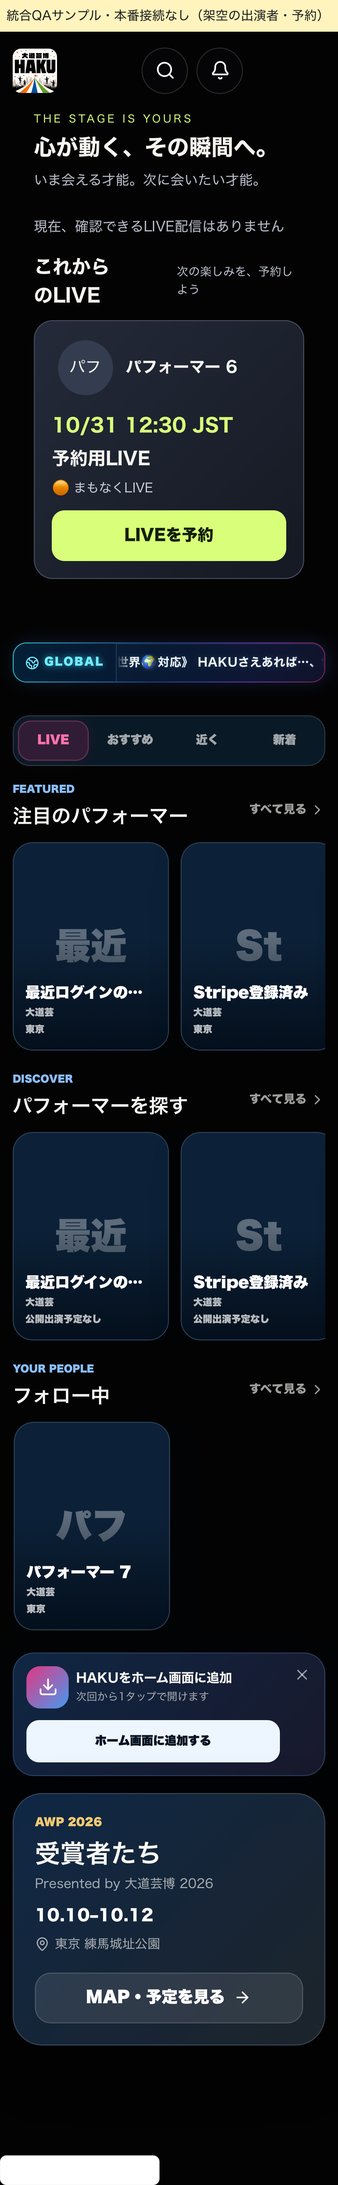
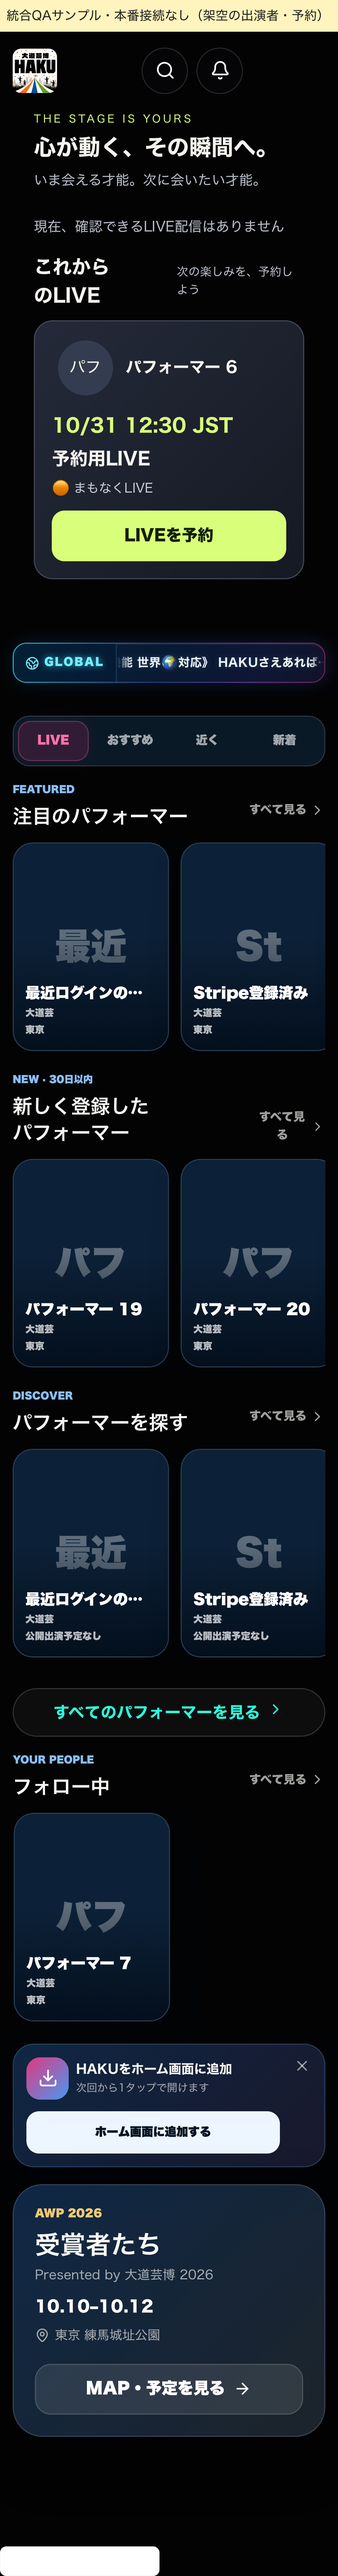
feat(home): complete requested priority order and verified new performer discovery

diff --git a/src/platform/screens/FanHomeScreen.tsx b/src/platform/screens/FanHomeScreen.tsx
@@ -43,7 +43,8 @@ type FanHomeProps = {
   onOpenTitle?: () => void
 }
 
-function PerformerRail({ title, eyebrow, performers, onOpen, onWatch, onSeeAll, captions }: {
+function PerformerRail({ id, title, eyebrow, performers, onOpen, onWatch, onSeeAll, captions }: {
+  id?: string
   captions?: Record<string, string>
   title: string
   eyebrow: string
@@ -55,7 +56,7 @@ function PerformerRail({ title, eyebrow, performers, onOpen, onWatch, onSeeAll, 
   const { t } = useLang()
   if (performers.length === 0) return null
   return (
-    <section className="pl-cinema-section" aria-label={title}>
+    <section id={id} className="pl-cinema-section" aria-label={title}>
       <header className="pl-cinema-section__head">
         <div><p>{eyebrow}</p><h2>{title}</h2></div>
         <button type="button" onClick={onSeeAll}>{t('seeAll')} <ChevronRight size={15} /></button>
@@ -188,6 +189,10 @@ export function FanHomeScreen({ onOpenPerformer, onWatchLive, onOpenSearch, onOp
   const featured = confirmed(ranking.featured)
   const upcoming = confirmed(ranking.upcoming.map(p => p.performerId))
   const unscheduled = confirmed((ranking.unscheduled ?? ranking.recent).slice(0, 8))
+  const newPerformers = confirmed(roster.filter(person => {
+    const registered = Date.parse(person.created_at)
+    return Number.isFinite(registered) && registered <= checkedAt && registered >= checkedAt - 30 * 86_400_000
+  }).sort((a, b) => Date.parse(b.created_at) - Date.parse(a.created_at) || a.id.localeCompare(b.id)).slice(0, 8).map(person => person.id))
   const captions = Object.fromEntries(ranking.upcoming.map(p => [p.performerId, appearanceLabel(p, checkedAt)]))
 
   return (
@@ -207,13 +212,16 @@ export function FanHomeScreen({ onOpenPerformer, onWatchLive, onOpenSearch, onOp
         <button type="button" data-active="true" onClick={onOpenLiveList}>{t('navLive')}</button>
         <button type="button" onClick={onOpenSearch}>{t('homeRecommend')}</button>
         <button type="button" onClick={onOpenMap}>{t('homeNear')}</button>
-        <button type="button" onClick={onOpenSearch}>{t('homeNew')}</button>
+        <button type="button" onClick={() => { const section = document.getElementById('haku-new-performers'); if (section) section.scrollIntoView({ block: 'start' }); else onOpenSearch() }}>{t('homeNew')}</button>
       </nav>
 
 
-      <PerformerRail title={t('homeFeatured')} eyebrow="FEATURED" performers={featured} onOpen={onOpenPerformer} onWatch={onWatchLive} onSeeAll={onOpenSearch} />
       <PerformerRail title={t('homeUpcoming')} eyebrow="UP NEXT" performers={upcoming} captions={captions} onOpen={onOpenPerformer} onWatch={onWatchLive} onSeeAll={onOpenMap} />
+      <PerformerRail title={t('homeFeatured')} eyebrow="FEATURED" performers={featured} onOpen={onOpenPerformer} onWatch={onWatchLive} onSeeAll={onOpenSearch} />
+      <PerformerRail id="haku-new-performers" title="新しく登録したパフォーマー" eyebrow="NEW · 30日以内" performers={newPerformers} onOpen={onOpenPerformer} onWatch={onWatchLive} onSeeAll={onOpenSearch} />
       <PerformerRail title="パフォーマーを探す" eyebrow="DISCOVER" performers={unscheduled} captions={Object.fromEntries(unscheduled.map(p => [p.id, '公開出演予定なし']))} onOpen={onOpenPerformer} onWatch={onWatchLive} onSeeAll={onOpenSearch} />
+
+      <button type="button" className="pl-btn pl-btn--ghost pl-btn--block" onClick={onOpenSearch}>すべてのパフォーマーを見る <ChevronRight size={16} /></button>
 
       {navigator ? <OfficialNavigatorCard navigator={{...navigator, live_status: feed.live.some(p => p.id === navigator.performer.id) ? 'live' : 'preparing', performer: {...navigator.performer, is_live: feed.live.some(p => p.id === navigator.performer.id)}}} onOpen={onOpenPerformer} onWatch={onWatchLive} onTip={onTip} /> : null}
       <PerformerRail title={t('homeFollowingRail')} eyebrow="YOUR PEOPLE" performers={(followedOwner === userId ? followed : []).map(p => ({...p, is_live: feed.live.some(l => l.id === p.id)}))} onOpen={onOpenPerformer} onWatch={onWatchLive} onSeeAll={onOpenSearch} />

diff --git a/tests/home-integration.test.tsx b/tests/home-integration.test.tsx
@@ -39,6 +39,16 @@ describe('integrated home: 105 LIVE/reservations and 113 ranking',()=>{
   fireEvent.click(screen.getByRole('button',{name:'応援・投げ銭'}));expect(callbacks.onTip).toHaveBeenCalledWith('live')
   fireEvent.click(screen.getByRole('button',{name:'プロフィール・フォロー'}));expect(callbacks.onOpenPerformer).toHaveBeenCalledWith('live')
  })
+ it('shows public registration dates after upcoming and activity, excluding unknown and future dates',async()=>{
+  const now=Date.now();fake.home.mockResolvedValueOnce({...home,performers:[...home.performers,{...p('new-older'),created_at:new Date(now-86400000).toISOString()},{...p('new-latest'),created_at:new Date(now-1000).toISOString()},{...p('unknown'),created_at:''},{...p('future'),created_at:new Date(now+86400000).toISOString()}],ranking:{...home.ranking,ids:[...home.ranking.ids,'new-older','new-latest','unknown','future']}})
+  const callbacks=props();show(callbacks)
+  const latest=await screen.findByRole('region',{name:'新しく登録したパフォーマー'})
+  expect(within(latest).getAllByRole('listitem').map(e=>e.querySelector('strong')!.textContent)).toEqual(['new-latest','new-older'])
+  const labels=[...document.querySelectorAll('.pl-cinema-section')].map(e=>e.getAttribute('aria-label'))
+  expect(labels.indexOf('まもなく出演')).toBeLessThan(labels.indexOf('注目のパフォーマー'))
+  expect(labels.indexOf('注目のパフォーマー')).toBeLessThan(labels.indexOf('新しく登録したパフォーマー'))
+  fireEvent.click(screen.getByRole('button',{name:'すべてのパフォーマーを見る'}));expect(callbacks.onOpenSearch).toHaveBeenCalled()
+ })
  it('masks stale LIVE flags everywhere, preserving the scheduled reservation',async()=>{
   fake.sessions.mockResolvedValue([]);show();await screen.findByRole('button',{name:'LIVEを予約'})
   expect(screen.queryByRole('button',{name:'今すぐ視聴 →'})).toBeNull()

diff --git a/tests/home-integration-preview/fixture.ts b/tests/home-integration-preview/fixture.ts
@@ -4,7 +4,7 @@ export const performers = Array.from({ length: 22 }, (_, i) => ({
   bio: '紹介', genre: '大道芸', country: '日本', city: '東京', photo_url: null, support_blurb: '',
   stripe_onboarding_complete: i === 1, is_approved: true, is_private_test: false,
   is_live: i === 2, live_started_at: null, live_title: 'サンプルLIVE', stream_url: null,
-  share_location: false, lat: null, lng: null, location_updated_at: null, created_at: '', updated_at: '',
+  share_location: false, lat: null, lng: null, location_updated_at: null, created_at: i >= 18 ? new Date(Date.now() - (i - 17) * 86400000).toISOString() : '', updated_at: '',
 }))
 let changed = false
 const params = new URLSearchParams(location.search)

diff --git a/docs/integration-115/README.md b/docs/integration-115/README.md
@@ -4,7 +4,7 @@
 独立checkout: `/private/tmp/haku-115-unified`、branch: `codex/haku-115-unified-integration`。
 Desktopの未コミット作業・元PRブランチは変更しない。
 
-**本番公開判定: NO-GO。コード統合は実施したが、接続済みサービスの全機能受入と実機試験は未完了。**
+**本番公開判定: NO-GO。コード統合と実TESTの主要結合試験は実施したが、接続済みサービスの全機能受入と実機試験は未完了。**
 この文書を個別PR内の過去の停止条件・古いTESTスキーマ記録より優先する。今回の指示は隔離TEST検証を許可しており、TEST変更に一律の再承認を要求するものではない。ただし既存TESTとの差分は検査し、既存データを削除しない。
 
 ## 回収範囲と採用
@@ -17,7 +17,7 @@ GitHub Issue #115、取得できたPR #38〜114の70件、ローカルmain、関
 | 縦横/全画面/音声/小窓 | #110 PCシアター等は本番済み | #99 小窓と同一media保持、設定/診断、#106共有/全画面を手動統合。横画面を映像/コメント別列に統一 | WebKit fixture検証、実音声/別端末待ち |
 | いいね/FEVER/THANK YOU/コメント | FEVERとgift等の基礎は既存 | #106 JWT集計・12/秒・batch冪等・Realtime/poll。送信中batchをタブ内sessionStorageへ保存し再読込再送。コメントの応答不明時は同一UUIDで再試行 | 本番likes SQLが必要。TESTの実JWT/Realtimeと実画面の配信者受信・FEVERは検証済み。ブラウザ終了で未送信タップ消失の可能性は残る |
 | 匿名応援/Stripe | 既存決済・分配を保持 | #112を採用（#107を含む）。宛先復元・ロック・古い応答の破棄・タップ透過 | TEST既存32ケースは元PR証跡。統合版Sandbox実精算は未検証・権限ある隔離認証待ち。本番tips TRUNCATE是正必要 |
-| ホーム・LIVE予約・活動順 | 旧ホーム。予約DBは本番に存在 | #114のみ採用（#105/#113を含む）。本人操作/公開予定由来の順位 | TESTに不足schema/権限を追加。実JWT予約/通知・実順位APIは通過。全ホーム導線の実機受入待ち |
+| ホーム・LIVE予約・活動順 | 旧ホーム。予約DBは本番に存在 | #114のみ採用（#105/#113を含む）。本人操作/公開予定由来の順位。出演予定→活動順→登録30日以内の新着→全員を見る導線を明示 | TESTに不足schema/権限を追加。実JWT予約/通知・実順位APIは通過。全ホーム導線の実機受入待ち |
 | MAP・出演予定 | #104/#109/#110/#111/#101/#102はmain統合済み | mainを継承。予定・実LIVE・位置なしを分離、座標を捏造しない | 統合版WebKit回帰。実GPS・地図接続・実機待ち |
 | YouTube公開 | URL CHECKの過剰escapeを本番read-onlyで再確認 | #108 本人専用保存・エラー・forward SQL、#100プレーヤー復旧と#110枠を両立 | 本番SQL未適用。実YouTube再生/終了検証待ち。HAKU公開操作はYouTube配信開始ではない |
 | 公式ページ | 既存プロフィール | #103 写真20枚/動画/PDF/公開予定/SNS/事務局案件/Storage。HOME_ENABLED既定OFF | 本番専用SQL/office/retention運用が必要。TEST実Auth/Storage/API/事務局案件は検証済み。物理iPhone待ち |
@@ -82,7 +82,7 @@ Production `pmmtijwswzwhuriqhlep`: live_schedules/live_reservations/product_even
 
 ## 今回の接続済みTEST整備・結合結果
 
-本番ではなく `aeqskxxykzapgaudbeqa` だけに、durable likes、official home、予約前提navigator判定、既存予約migration、product_events、不足するサーバー専用公開予定読取grantを適用。SQLは本体migrationと`supabase/test/`に保存。一般ユーザーの権限は広げていない。
+本番ではなく `aeqskxxykzapgaudbeqa` だけに、durable likes、official home、予約前提navigator判定、既存予約migration、product_events、不足するサーバー専用公開予定読取grantを適用。SQLは本体migrationと`supabase/test/`に保存。既存プロフィール/台帳や他人への一般ユーザー編集権限は広げていない。
 
 - 実TEST PostgreSQLのSQL role/claims試験14項目通過。全fixtureはROLLBACK。
 - 新規TESTユーザー3人で実Auth JWT/PostgREST/Realtime14項目通過。配信者本人が2視聴者の合計8いいねとコメント1件を実Realtime受信。重複UUID、他人の終了拒否、予約分離、2人への通知、終了後のいいね拒否を確認。
